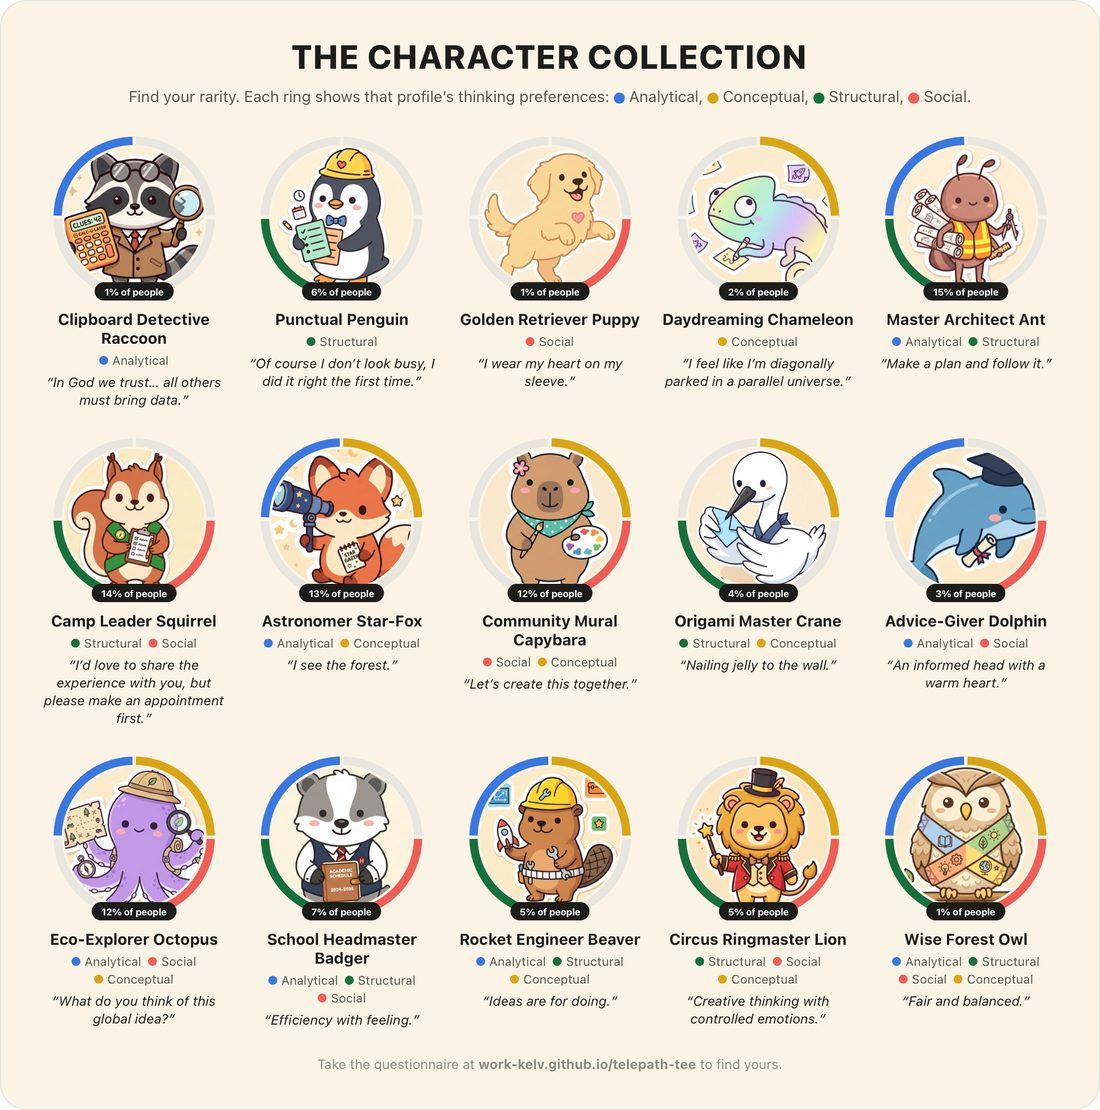
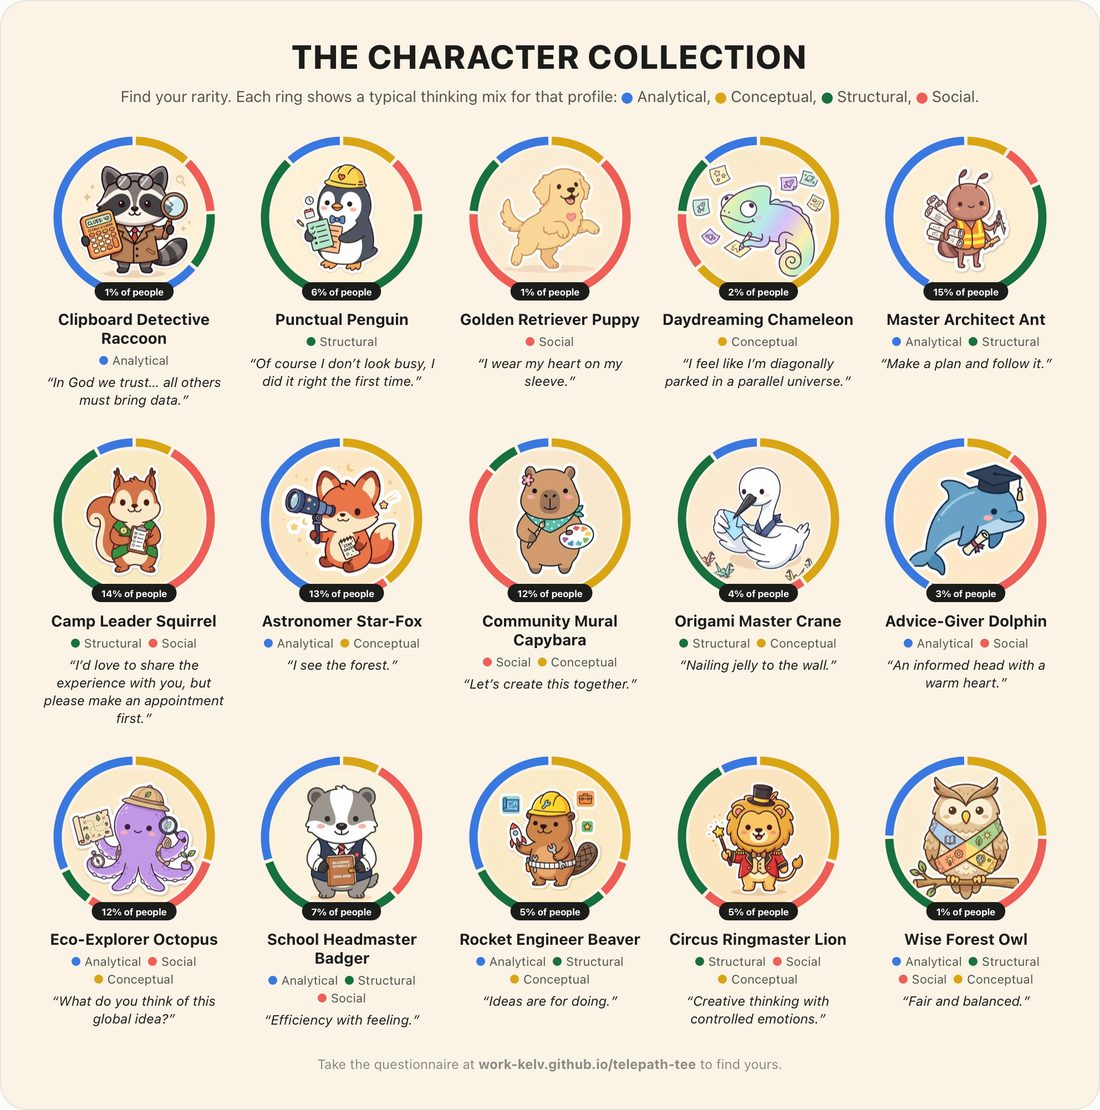
Profile pies with every color; characters fit their circles
- Each animal has a typical thinking mix (the proportions from the
  field-guide profile gallery). The model is now drawn as a proportional
  pie in the Emergenetics layout, with every color present and the
  preferences labeled, instead of four equal on/off quadrants.
- Collection rings use the same typical mix.
- Characters are scaled down inside the round frames so nothing is clipped.
- Test: each typical mix adds to 100% and its 23%+ slices are exactly the
  animal's preferences.

diff --git a/src/lib/animals.ts b/src/lib/animals.ts
@@ -7,6 +7,8 @@ import { THINKING_KEYS, type ThinkingKey } from "./attributes";
 export interface Animal {
   /** Thinking preferences, in the standard Analytical/Structural/Social/Conceptual order. */
   colors: ThinkingKey[];
+  /** A typical thinking mix for this profile (percentages adding to 100), as drawn in its pie. */
+  typical: Record<ThinkingKey, number>;
   name: string;
   /** What this mix of thinking preferences is like, in a sentence or two. */
   summary: string;
@@ -19,6 +21,7 @@ export interface Animal {
 export const ANIMALS: Animal[] = [
   {
     colors: ["analytical"],
+    typical: { analytical: 64, structural: 12, social: 12, conceptual: 12 },
     name: "The Clipboard Detective Raccoon",
     summary: "Logic first. Thinks things through with data and reasoning, enjoys untangling complex problems, and wants evidence before agreeing.",
     motto: "In God we trust… all others must bring data.",
@@ -27,6 +30,7 @@ export const ANIMALS: Animal[] = [
   },
   {
     colors: ["structural"],
+    typical: { analytical: 12, structural: 64, social: 12, conceptual: 12 },
     name: "The Punctual Penguin",
     summary: "Plan first. Likes clear steps, rules and predictability, pays close attention to detail, and finishes what it starts.",
     motto: "Of course I don’t look busy, I did it right the first time.",
@@ -35,6 +39,7 @@ export const ANIMALS: Animal[] = [
   },
   {
     colors: ["social"],
+    typical: { analytical: 12, structural: 12, social: 64, conceptual: 12 },
     name: "The Golden Retriever Puppy",
     summary: "People first. Reads how others feel, thinks best in conversation, and weighs every decision by its effect on people.",
     motto: "I wear my heart on my sleeve.",
@@ -43,6 +48,7 @@ export const ANIMALS: Animal[] = [
   },
   {
     colors: ["conceptual"],
+    typical: { analytical: 12, structural: 12, social: 12, conceptual: 64 },
     name: "The Daydreaming Chameleon",
     summary: "Ideas first. Imaginative and intuitive, sees the big picture, loves the unusual, and learns by experimenting.",
     motto: "I feel like I’m diagonally parked in a parallel universe.",
@@ -51,6 +57,7 @@ export const ANIMALS: Animal[] = [
   },
   {
     colors: ["analytical", "structural"],
+    typical: { analytical: 42, structural: 40, social: 9, conceptual: 9 },
     name: "The Master Architect Ant",
     summary: "Logical and organized. Gathers the facts, builds a careful plan, then follows it through to the end.",
     motto: "Make a plan and follow it.",
@@ -59,6 +66,7 @@ export const ANIMALS: Animal[] = [
   },
   {
     colors: ["structural", "social"],
+    typical: { analytical: 8, structural: 44, social: 40, conceptual: 8 },
     name: "The Camp Leader Squirrel",
     summary: "Practical and caring. Brings order to people\u2019s needs: reliable plans, clear roles and a well-looked-after team.",
     motto: "I’d love to share the experience with you, but please make an appointment first.",
@@ -67,6 +75,7 @@ export const ANIMALS: Animal[] = [
   },
   {
     colors: ["analytical", "conceptual"],
+    typical: { analytical: 44, structural: 8, social: 8, conceptual: 40 },
     name: "The Astronomer Star-Fox",
     summary: "Big-picture strategist. Pairs rigorous analysis with imagination, seeing both the data and where it could lead.",
     motto: "I see the forest.",
@@ -75,6 +84,7 @@ export const ANIMALS: Animal[] = [
   },
   {
     colors: ["social", "conceptual"],
+    typical: { analytical: 7, structural: 7, social: 42, conceptual: 44 },
     name: "The Community Mural Capybara",
     summary: "Creative and collaborative. Dreams up new possibilities with and for people, and builds ideas together.",
     motto: "Let’s create this together.",
@@ -83,6 +93,7 @@ export const ANIMALS: Animal[] = [
   },
   {
     colors: ["structural", "conceptual"],
+    typical: { analytical: 10, structural: 40, social: 10, conceptual: 40 },
     name: "The Origami Master Crane",
     summary: "Visionary builder. Has the wild ideas and the patience to turn them into step-by-step reality, a rare mix of new and proven.",
     motto: "Nailing jelly to the wall.",
@@ -91,6 +102,7 @@ export const ANIMALS: Animal[] = [
   },
   {
     colors: ["analytical", "social"],
+    typical: { analytical: 42, structural: 10, social: 38, conceptual: 10 },
     name: "The Advice-Giver Dolphin",
     summary: "Head and heart. Checks both the evidence and the human impact, combining clear reasoning with empathy.",
     motto: "An informed head with a warm heart.",
@@ -99,6 +111,7 @@ export const ANIMALS: Animal[] = [
   },
   {
     colors: ["analytical", "social", "conceptual"],
+    typical: { analytical: 32, structural: 8, social: 30, conceptual: 30 },
     name: "The Eco-Explorer Octopus",
     summary: "Global thinker. Combines analysis, a feel for people and big ideas; at home with strategy and change, lighter on routine.",
     motto: "What do you think of this global idea?",
@@ -107,6 +120,7 @@ export const ANIMALS: Animal[] = [
   },
   {
     colors: ["analytical", "structural", "social"],
+    typical: { analytical: 30, structural: 32, social: 30, conceptual: 8 },
     name: "The School Headmaster Badger",
     summary: "Efficient with feeling. Logical, organized and attentive to people: gets things done without leaving anyone behind.",
     motto: "Efficiency with feeling.",
@@ -115,6 +129,7 @@ export const ANIMALS: Animal[] = [
   },
   {
     colors: ["analytical", "structural", "conceptual"],
+    typical: { analytical: 32, structural: 30, social: 8, conceptual: 30 },
     name: "The Rocket Engineer Beaver",
     summary: "Inventive doer. Turns ideas into results with logic and planning; the people side may need a deliberate thought.",
     motto: "Ideas are for doing.",
@@ -123,6 +138,7 @@ export const ANIMALS: Animal[] = [
   },
   {
     colors: ["structural", "social", "conceptual"],
+    typical: { analytical: 8, structural: 30, social: 32, conceptual: 30 },
     name: "The Circus Ringmaster Lion",
     summary: "Creative organizer. Imaginative and people-minded, with the structure to bring ideas to life.",
     motto: "Creative thinking with controlled emotions.",
@@ -131,6 +147,7 @@ export const ANIMALS: Animal[] = [
   },
   {
     colors: ["analytical", "structural", "social", "conceptual"],
+    typical: { analytical: 25, structural: 25, social: 25, conceptual: 25 },
     name: "The Wise Forest Owl",
     summary: "Fair and balanced. Relates to every way of thinking and sees a problem from all angles, though picking one path can take time.",
     motto: "Fair and balanced.",

diff --git a/src/components/ModelCircle.tsx b/src/components/ModelCircle.tsx
@@ -1,45 +1,69 @@
 import { THINKING, type ThinkingKey } from "@/lib/attributes";
 
-// The Emergenetics model as drawn in the workshop: a circle in four quadrants, Analytical
-// top-left, Conceptual top-right, Structural bottom-left and Social bottom-right. Preferred
-// quadrants are filled in their color; the rest stay pale. The purple ring stands for the
-// three behaviors that sit around the thinking attributes.
+// A thinking-mix pie drawn the way Emergenetics profiles draw it: slices run clockwise from
+// the top as Conceptual, Social, Structural, Analytical, so Analytical sits top-left,
+// Conceptual top-right, Social bottom-right and Structural bottom-left. Every color has a
+// slice, sized by its share; preferences (23% or more) are labeled. The purple ring stands
+// for the three behaviors that sit around the thinking attributes.
 
-const QUADRANTS: Array<{ key: ThinkingKey; path: string; x: number; y: number }> = [
-  { key: "analytical", path: "M60 60 L8 60 A52 52 0 0 1 60 8 Z", x: 35, y: 50 },
-  { key: "conceptual", path: "M60 60 L60 8 A52 52 0 0 1 112 60 Z", x: 85, y: 50 },
-  { key: "social", path: "M60 60 L112 60 A52 52 0 0 1 60 112 Z", x: 85, y: 76 },
-  { key: "structural", path: "M60 60 L60 112 A52 52 0 0 1 8 60 Z", x: 35, y: 76 },
-];
+const ORDER: ThinkingKey[] = ["conceptual", "social", "structural", "analytical"];
+const PREFERENCE = 23;
 
-const PALE = "#ecebe6";
-const PALE_TEXT = "#9a9a92";
+function point(deg: number, r: number): [number, number] {
+  const rad = ((deg - 90) * Math.PI) / 180;
+  return [60 + r * Math.cos(rad), 60 + r * Math.sin(rad)];
+}
 
-export function ModelCircle({ colors, size = 120 }: { colors: ThinkingKey[]; size?: number }) {
-  const preferred = new Set(colors);
-  const label = `Thinking preferences: ${colors.map((k) => THINKING[k].name).join(", ")}`;
+export function ModelCircle({ mix, size = 120 }: { mix: Record<ThinkingKey, number>; size?: number }) {
+  const label = `Thinking mix: ${ORDER.map((k) => `${THINKING[k].name} ${mix[k]}%`).join(", ")}`;
+  let start = 0;
+  const slices = ORDER.map((k) => {
+    const sweep = (mix[k] / 100) * 360;
+    const s = { key: k, from: start, to: start + sweep };
+    start += sweep;
+    return s;
+  });
   return (
     <svg viewBox="0 0 120 120" width={size} height={size} role="img" aria-label={label} className="shrink-0">
       <title>{label}</title>
       <circle cx="60" cy="60" r="57.5" fill="none" stroke="#7C4DCC" strokeOpacity="0.35" strokeWidth="3" />
-      {QUADRANTS.map((q) => {
-        const on = preferred.has(q.key);
+      {slices.map((s) => {
+        const [x1, y1] = point(s.from, 52);
+        const [x2, y2] = point(s.to, 52);
+        const large = s.to - s.from > 180 ? 1 : 0;
         return (
-          <g key={q.key}>
-            <path d={q.path} fill={on ? THINKING[q.key].color : PALE} stroke="#ffffff" strokeWidth="2.5" />
-            <text
-              x={q.x}
-              y={q.y}
-              textAnchor="middle"
-              fontSize="8"
-              fontWeight={on ? 700 : 500}
-              fill={on ? (q.key === "conceptual" ? "#1c1c1a" : "#ffffff") : PALE_TEXT}
-            >
-              {THINKING[q.key].name}
-            </text>
-          </g>
+          <path
+            key={s.key}
+            d={`M60 60 L${x1.toFixed(2)} ${y1.toFixed(2)} A52 52 0 ${large} 1 ${x2.toFixed(2)} ${y2.toFixed(2)} Z`}
+            fill={THINKING[s.key].color}
+            stroke="#ffffff"
+            strokeWidth="2"
+          />
         );
       })}
+      {slices
+        .filter((s) => mix[s.key] >= PREFERENCE)
+        .map((s) => {
+          // Conceptual and Analytical slices start at the top, where the pie is narrowest, so unless they
+          // fill half the pie their labels sit just above the centre line, where there is room for them.
+          const nearTop = (s.key === "conceptual" || s.key === "analytical") && mix[s.key] < 50;
+          const [x, y] = nearTop
+            ? [s.key === "conceptual" ? 85 : 35, 47]
+            : point((s.from + s.to) / 2, mix[s.key] >= 50 ? 24 : 31);
+          return (
+            <text
+              key={s.key}
+              x={x}
+              y={y + 3}
+              textAnchor="middle"
+              fontSize="8"
+              fontWeight={700}
+              fill={s.key === "conceptual" ? "#1c1c1a" : "#ffffff"}
+            >
+              {THINKING[s.key].name}
+            </text>
+          );
+        })}
     </svg>
   );
 }

diff --git a/src/app/animals/page.tsx b/src/app/animals/page.tsx
@@ -19,8 +19,8 @@ export default function AnimalsPage() {
         <p className="eyebrow">Profile animals</p>
         <h1 className="text-3xl font-bold tracking-tight">Meet the 15 animals</h1>
         <p className="max-w-2xl text-ink-soft">
-          Every profile has a mix of thinking preferences: any color at 23% or more. In each circle, the colored quadrants
-          are that animal&rsquo;s preferences. Each of the 15 possible mixes has its own animal, motto and share of the
+          Every profile has a mix of thinking preferences: any color at 23% or more. Each pie shows a typical mix for that
+          animal, with its preferences as the big, labeled slices. Each of the 15 possible mixes has its own animal, motto and share of the
           population; the bars use one scale, where a full bar is {RARITY_SCALE}% of people.
         </p>
         <p className="no-print text-sm">
@@ -60,7 +60,7 @@ export default function AnimalsPage() {
                 {isMine ? `${profile?.name}’s animal` : ANIMAL_GROUPS.find((g) => g.size === a.colors.length)?.title}
               </p>
               <div className="flex items-center gap-3">
-                <ModelCircle colors={a.colors} size={128} />
+                <ModelCircle mix={a.typical} size={128} />
                 <div className="min-w-0 space-y-1">
                   <h3 className="font-bold leading-tight">{a.name}</h3>
                   <p className="text-sm font-medium italic">&ldquo;{a.motto}&rdquo;</p>

diff --git a/src/app/animals/collection/page.tsx b/src/app/animals/collection/page.tsx
@@ -17,7 +17,7 @@ export default function CollectionPage() {
         <header className="mb-6 space-y-2 text-center">
           <h1 className="text-2xl font-extrabold uppercase tracking-wide sm:text-3xl">The character collection</h1>
           <p className="text-sm text-ink-soft">
-            Find your rarity. Each ring shows that profile&rsquo;s thinking preferences:{" "}
+            Find your rarity. Each ring shows a typical thinking mix for that profile:{" "}
             {(["analytical", "conceptual", "structural", "social"] as const).map((k, i, all) => (
               <span key={k} className="whitespace-nowrap">
                 <span className="mr-1 inline-block h-2.5 w-2.5 rounded-full align-middle" style={{ background: THINKING[k].color }} />
@@ -31,7 +31,7 @@ export default function CollectionPage() {
         <ul className="grid grid-cols-2 gap-x-3 gap-y-6 sm:grid-cols-3 lg:grid-cols-5">
           {ANIMALS.map((a) => (
             <li key={a.name} className="flex flex-col items-center text-center">
-              <AnimalPortrait animal={a} size={150} label={`${a.rarity}% of people`} />
+              <AnimalPortrait animal={a} percentages={a.typical} size={150} label={`${a.rarity}% of people`} />
               <h2 className="mt-2 text-sm font-bold leading-tight">{a.name.replace(/^The /, "")}</h2>
               <p className="mt-1 flex flex-wrap justify-center gap-x-1.5 text-[11px] text-ink-soft">
                 {a.colors.map((k) => (

diff --git a/src/lib/animals.test.ts b/src/lib/animals.test.ts
@@ -33,3 +33,11 @@ test("every scored profile gets an animal, and every picture exists", () => {
   }
   for (const a of ANIMALS) assert.ok(existsSync(path.join("public", "animals", a.image)), a.image);
 });
+
+test("each typical mix adds to 100% and its preferred colors are exactly the slices of 23% or more", () => {
+  for (const a of ANIMALS) {
+    const t = a.typical;
+    assert.equal(THINKING_KEYS.reduce((s, k) => s + t[k], 0), 100, a.name);
+    assert.deepEqual(THINKING_KEYS.filter((k) => t[k] >= 23), THINKING_KEYS.filter((k) => a.colors.includes(k)), a.name);
+  }
+});

diff --git a/src/components/AnimalPortrait.tsx b/src/components/AnimalPortrait.tsx
@@ -66,12 +66,13 @@ export function AnimalPortrait({
         </clipPath>
       </defs>
       <circle cx={c} cy={c} r={ringR - ring / 2 - 3} fill="#fbeedb" />
+      {/* Scaled so the whole character fits inside the circle (the image is 4:3, centred on 100,100). */}
       <image
         href={animalImage(animal)}
-        x={-42}
-        y={-6}
-        width={284}
-        height={213}
+        x={-8}
+        y={19}
+        width={216}
+        height={162}
         preserveAspectRatio="xMidYMid slice"
         clipPath={`url(#${clipId})`}
       />
